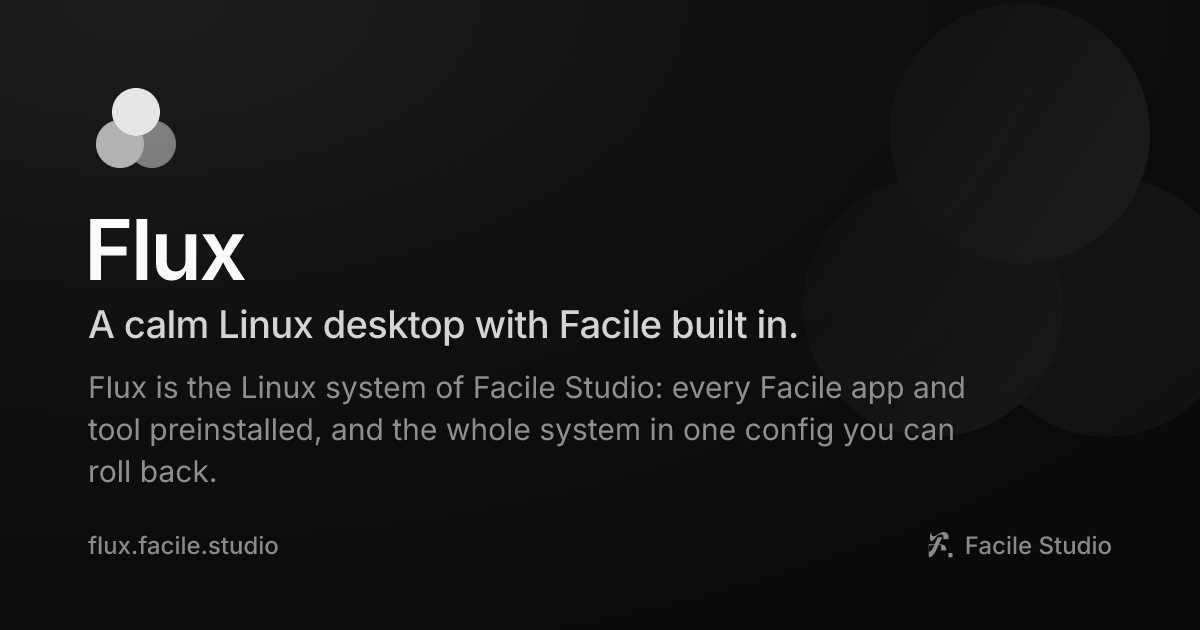
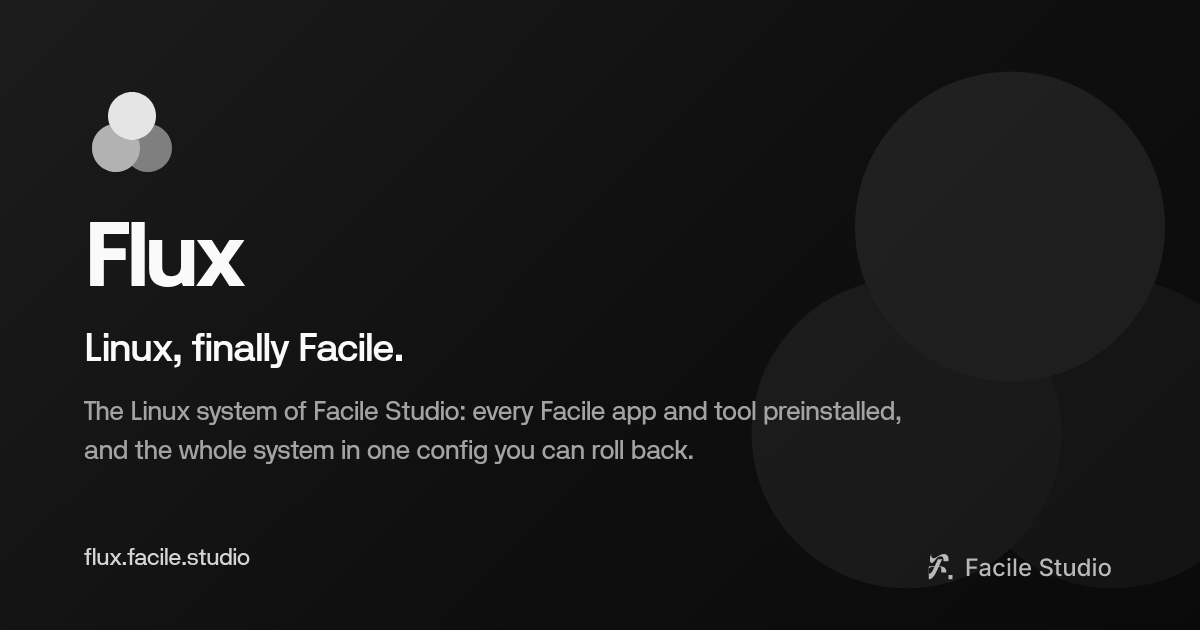
feat(site): even desktop gaps and the new slogan
The closed Settings column still took a flex gap on each side, pushing Files against the right edge. Columns now carry their own margin, the bar sits on the same gap, and every gap is 14 px (12 on mobile). The slogan becomes "Linux, enfin Facile." in every locale, with a matching share image.

diff --git a/site/src/lib/components/FluxDesktop.svelte b/site/src/lib/components/FluxDesktop.svelte
@@ -32,7 +32,7 @@
 	<div class="wall base"></div>
 	<div class="wall alt" class:show={scene.wallpaper === ALTERNATE} style:background-image="url('/wallpapers/{ALTERNATE}-large.jpg')"></div>
 
-	<div class="bar">
+	<div class="bar" style:inset="{gap}px {gap}px auto">
 		<div class="left">
 			{#each compact ? [1, 2, 3] : [1, 2, 3, 4] as ws (ws)}
 				<span class="ws" class:on={ws === scene.workspace}>{ws}</span>
@@ -51,9 +51,9 @@
 		</div>
 	</div>
 
-	<div class="cols" class:away={scene.workspace !== 2}>
-		<div class="strip" style:gap="{gap}px" style:padding-left="{gap}px" style:transform="translateX({-offset}px)">
-			<div class="col term" style:width="{half}px">
+	<div class="cols" class:away={scene.workspace !== 2} style:top="{2 * gap + (compact ? 30 : 32)}px">
+		<div class="strip" style:padding-left="{gap}px" style:transform="translateX({-offset}px)">
+			<div class="col term" style:width="{half}px" style:margin-right="{gap}px">
 				<div class="tline"><span class="mute">~</span> <span class="ok">❯</span> ls</div>
 				<div class="tline mute">Code&nbsp;&nbsp;Documents&nbsp;&nbsp;Nuage&nbsp;&nbsp;Photos</div>
 				<div class="tline"><span class="mute">~</span> <span class="ok">❯</span> nuage status</div>
@@ -68,7 +68,12 @@
 				{/if}
 			</div>
 
-			<div class="col grower" class:open={scene.opened} style:width="{scene.opened ? full : 0}px">
+			<div
+				class="col grower"
+				class:open={scene.opened}
+				style:width="{scene.opened ? full : 0}px"
+				style:margin-right="{scene.opened ? gap : 0}px"
+			>
 				<div class="inner" style:width="{full}px">
 					<FluxSettings page={scene.page} wifi={scene.wifi} wallpaper={scene.wallpaper} {compact} deskDark={!scene.swapped} />
 				</div>
@@ -132,9 +137,6 @@
 	.bar {
 		position: absolute;
 		z-index: 1;
-		top: 8px;
-		left: 8px;
-		right: 8px;
 		display: flex;
 		align-items: center;
 		justify-content: space-between;
@@ -199,8 +201,7 @@
 	}
 	.cols {
 		position: absolute;
-		top: 50px;
-		bottom: 12px;
+		bottom: 14px;
 		left: 0;
 		right: 0;
 		overflow: hidden;
@@ -213,8 +214,7 @@
 		transform: translateY(-40px);
 	}
 	.compact .cols {
-		top: 46px;
-		bottom: 8px;
+		bottom: 12px;
 	}
 	.strip {
 		display: flex;
@@ -250,6 +250,7 @@
 		opacity: 0;
 		transition:
 			width 320ms cubic-bezier(0.22, 1, 0.36, 1),
+			margin-right 320ms cubic-bezier(0.22, 1, 0.36, 1),
 			opacity 200ms ease-out;
 	}
 	.grower.open {

diff --git a/site/src/app.html b/site/src/app.html
@@ -13,14 +13,14 @@
 		<meta property="og:type" content="website" />
 		<meta property="og:site_name" content="Facile" />
 		<meta property="og:url" content="https://flux.facile.studio/" />
-		<meta property="og:title" content="Flux · A calm Linux desktop with Facile built in." />
+		<meta property="og:title" content="Flux · Linux, finally Facile." />
 		<meta property="og:description" content="Flux is the Linux system of Facile Studio: every Facile app and tool preinstalled, and the whole system in one config you can roll back." />
 		<meta property="og:image" content="https://flux.facile.studio/og-image.png" />
 		<meta property="og:image:width" content="1200" />
 		<meta property="og:image:height" content="630" />
-		<meta property="og:image:alt" content="Flux: A calm Linux desktop with Facile built in." />
+		<meta property="og:image:alt" content="Flux: Linux, finally Facile." />
 		<meta name="twitter:card" content="summary_large_image" />
-		<meta name="twitter:title" content="Flux · A calm Linux desktop with Facile built in." />
+		<meta name="twitter:title" content="Flux · Linux, finally Facile." />
 		<meta name="twitter:description" content="Flux is the Linux system of Facile Studio: every Facile app and tool preinstalled, and the whole system in one config you can roll back." />
 		<meta name="twitter:image" content="https://flux.facile.studio/og-image.png" />
 		%sveltekit.head%

diff --git a/site/src/lib/messages/page.ts b/site/src/lib/messages/page.ts
@@ -21,10 +21,10 @@ export const page = {
 		'Offene Beta · stabile Version um März 2027'
 	],
 	'landing.slogan': [
-		'A calm Linux desktop with every Facile app already there.',
-		'Un bureau Linux calme, avec toutes les apps Facile déjà là.',
-		'Un escritorio Linux tranquilo, con todas las apps de Facile ya instaladas.',
-		'Ein ruhiger Linux-Desktop, auf dem alle Facile-Apps schon da sind.'
+		'Linux, finally Facile.',
+		'Linux, enfin Facile.',
+		'Linux, por fin Facile.',
+		'Linux, endlich Facile.'
 	],
 	'landing.subtitle': [
 		'Sablier, Nuage, Casier and Bulle are ready from the first boot. Your windows line up side by side and never overlap.',
